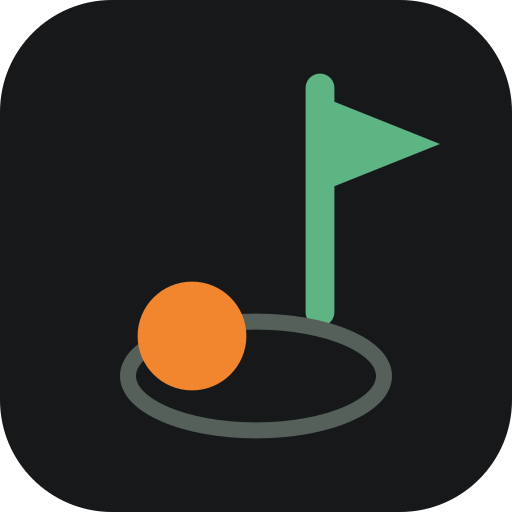
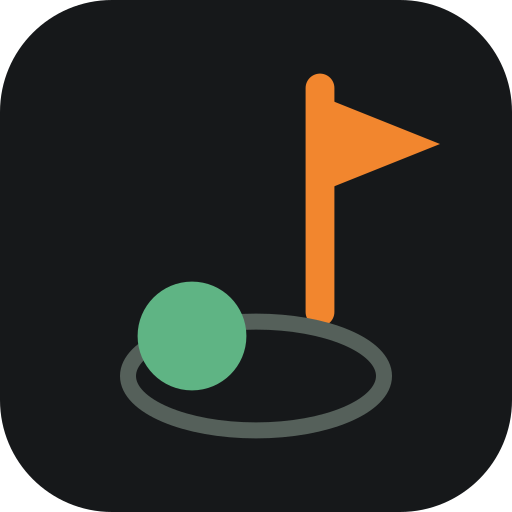
Swap the mark: orange flag, green ball — and make the ball themeable
Asked to confirm the logo was consistent with an orange flag and a green
ball. It was neither.

The colours were reversed: the flag and stick took --color-accent-2 (the
fairway green) and the icon generator drew them in #5fb484, while the ball
was orange. Swapped both, in the component and in gen-icons.mjs, and
regenerated every PWA tile, favicon, Android mipmap and the iOS AppIcon.

The consistency fault was worse than the colours, and would have survived a
straight swap. THE BALL WAS NOT A VARIABLE. Logo.tsx drew it as
`currentColor`, so it took whatever text colour it happened to sit in —
near-white in the sidebar, near-white on the landing page — while the
generated icons drew it in an explicit orange. The icon on a home screen did
not match the app it opened, and no call site could have fixed it, because
there was nothing to set. `--logo-ball` now exists alongside --logo-flag,
--logo-stick, --logo-rim and --logo-cup.

The landing page had the same disagreement in miniature: its mapping was
commented "Pennant orange" while pointing --logo-flag at --flag, which is
that page's GREEN. The comment was right about the intent and the code had
been wrong the whole time. Now --brass for the pennant and --flag for the
ball, which is what the comment always claimed.

Also found: two near-identical oranges. globals.css declares --color-accent
as #f2872e, but the solved ramp resolves it to #f2862e, and the ramp wins in
[…]

Changed region(s): [[0.5938, 0.125, 0.8438, 0.625], [0.25, 0.5312, 0.5, 0.7812]]

diff --git a/src/lib/__tests__/brand-consistency.test.ts b/src/lib/__tests__/brand-consistency.test.ts
@@ -64,7 +64,7 @@ describe("the brand mark is drawn once", () => {
     expect(logo).toContain("--logo-flag");
     expect(logo).toContain("--logo-rim");
     expect(logo).toContain("--logo-cup");
-    expect(read("src/app/page.tsx")).toContain('"--logo-flag": "var(--flag)"');
+    expect(read("src/app/page.tsx")).toContain('"--logo-flag": "var(--brass)"');
   });
 });
 
@@ -226,5 +226,64 @@ describe("nothing is set smaller than it can be read", () => {
       }
     }
     expect(offenders, `text below 10px in: ${offenders.join(", ")}`).toEqual([]);
+  });
+});
+
+describe("the mark is the same colour in both renderings", () => {
+  /**
+   * The geometry test above proves the component and the icon generator draw
+   * the same SHAPES. Nothing proved they filled them the same way, and they
+   * did not: the generator drew an orange ball while the component drew it in
+   * `currentColor` — near-white wherever it actually sat. The icon on a home
+   * screen did not match the app it opened, and the flag and ball were the
+   * reverse of the intended mark in both.
+   *
+   * Orange flag, green ball. Asserted against the palette rather than against
+   * literal hex, so changing the club ramp cannot leave the icons behind.
+   */
+  const logo = read("src/components/Logo.tsx");
+  const gen = readFileSync(join(root, "scripts/gen-icons.mjs"), "utf8");
+
+  it("draws the flag from the accent (orange) in the component", () => {
+    // Both the pennant and the stick fall back to --color-accent, the orange.
+    expect(logo).toContain("var(--logo-flag, var(--color-accent, currentColor))");
+  });
+
+  it("draws the ball from accent-2 (green), and as a variable at all", () => {
+    // `currentColor` is not a colour decision, it is the absence of one.
+    expect(logo).toContain("var(--logo-ball, var(--color-accent-2, currentColor))");
+    expect(logo, "the ball must not be currentColor again").not.toMatch(
+      /<circle[^>]*fill="currentColor"/,
+    );
+  });
+
+  it("uses the same two colours in the generated icons", async () => {
+    // The rasterizer cannot read custom properties, so these are written out —
+    // which is exactly why they drifted. FLAG must be the accent orange and
+    // BALL the secondary green, matching the component's fallbacks above.
+    const { THEME_PRESETS, themeScale, SECONDARY_PRESETS, themeFor } = await import("../themes");
+    void THEME_PRESETS;
+    void SECONDARY_PRESETS;
+    const orange = themeScale(themeFor("sunset"))[500].toLowerCase();
+
+    const flag = /const FLAG = "(#[0-9a-fA-F]{6})"/.exec(gen)?.[1]?.toLowerCase();
+    const ball = /const BALL = "(#[0-9a-fA-F]{6})"/.exec(gen)?.[1]?.toLowerCase();
+
+    expect(flag, "FLAG should be the accent orange").toBe(orange);
+    // The ball is lifted one step off the in-app green, which goes muddy at
+    // 48px — so it is checked as "a green", not as an exact token.
+    expect(ball, "BALL should be a green, not the orange").not.toBe(orange);
+    expect(ball).toMatch(/^#[0-9a-f]{6}$/);
+    const [r, g, b] = [1, 3, 5].map((i) => parseInt(ball!.slice(i, i + 2), 16));
+    expect(g, `BALL ${ball} should be green-dominant`).toBeGreaterThan(r);
+    expect(g, `BALL ${ball} should be green-dominant`).toBeGreaterThan(b);
+  });
+
+  it("keeps the landing page's mapping honest", () => {
+    // This page has its own palette, and its mapping said "pennant orange"
+    // while pointing at --flag, which is its green.
+    const landing = read("src/app/page.tsx");
+    expect(landing).toContain('"--logo-flag": "var(--brass)"');
+    expect(landing).toContain('"--logo-ball": "var(--flag)"');
   });
 });

diff --git a/src/components/Logo.tsx b/src/components/Logo.tsx
@@ -13,12 +13,18 @@
  * Colours come from variables so the marketing page can keep its own palette
  * without keeping its own drawing:
  *
- *   --logo-flag   the pennant
+ *   --logo-flag   the pennant, and the stick unless overridden — ORANGE
  *   --logo-stick  the flagstick; defaults to the pennant's colour
+ *   --logo-ball   the ball — GREEN
  *   --logo-rim    the cup's outline
  *   --logo-cup    the cup's fill; transparent where the ground is not flat
  *
- * The ball is always `currentColor`, so `color:` alone re-themes the mark.
+ * Orange flag, green ball. It was the other way round, and the ball was not a
+ * variable at all — it was `currentColor`, so it took whatever text colour it
+ * happened to sit in. That made it near-white in the sidebar and on the
+ * landing page while the generated app icons drew it in orange: the icon on a
+ * home screen did not match the app it opened. A part of the mark that cannot
+ * be set is a part of the mark that drifts.
  */
 
 /**
@@ -66,11 +72,11 @@ export function Logo({
         // stick and pennant in one colour; the programme palette draws the
         // stick in ink and lets only the pennant carry the orange. Collapsing
         // the two lost that two-tone the first time this was unified.
-        stroke="var(--logo-stick, var(--logo-flag, var(--color-accent-2, currentColor)))"
+        stroke="var(--logo-stick, var(--logo-flag, var(--color-accent, currentColor)))"
         strokeWidth="1.8"
         strokeLinecap="round"
       />
-      <path d="M20 4.5 L27.5 7.5 L20 10.5 Z" fill="var(--logo-flag, var(--color-accent-2, currentColor))" />
+      <path d="M20 4.5 L27.5 7.5 L20 10.5 Z" fill="var(--logo-flag, var(--color-accent, currentColor))" />
       {/* the cup */}
       <ellipse
         cx="16"
@@ -82,7 +88,7 @@ export function Logo({
         strokeWidth="1"
       />
       {/* ball dropping in */}
-      <circle cx="12" cy="19.5" r="3.4" fill="currentColor" />
+      <circle cx="12" cy="19.5" r="3.4" fill="var(--logo-ball, var(--color-accent-2, currentColor))" />
     </svg>
   );
 }

diff --git a/src/app/page.tsx b/src/app/page.tsx
@@ -261,10 +261,16 @@ function FlagMark({ size = LOGO_SIZE.md }: { size?: number }) {
       size={size}
       style={
         {
-          // Pennant orange, stick in ink — the programme's two-tone. The app
-          // draws both in one colour; this is the difference the variables
-          // exist to carry.
-          "--logo-flag": "var(--flag)",
+          // Pennant orange, ball green, stick in ink — the programme's
+          // two-tone. The app draws stick and pennant in one colour; this is
+          // the difference the variables exist to carry.
+          //
+          // The comment above said "pennant orange" while the line below
+          // mapped it to --flag, which is this page's GREEN. The mark rendered
+          // green-on-green and the ball took the ink colour, because it was
+          // not a variable at all.
+          "--logo-flag": "var(--brass)",
+          "--logo-ball": "var(--flag)",
           "--logo-stick": "currentColor",
           "--logo-rim": "var(--line-2)",
           "--logo-cup": "transparent",
